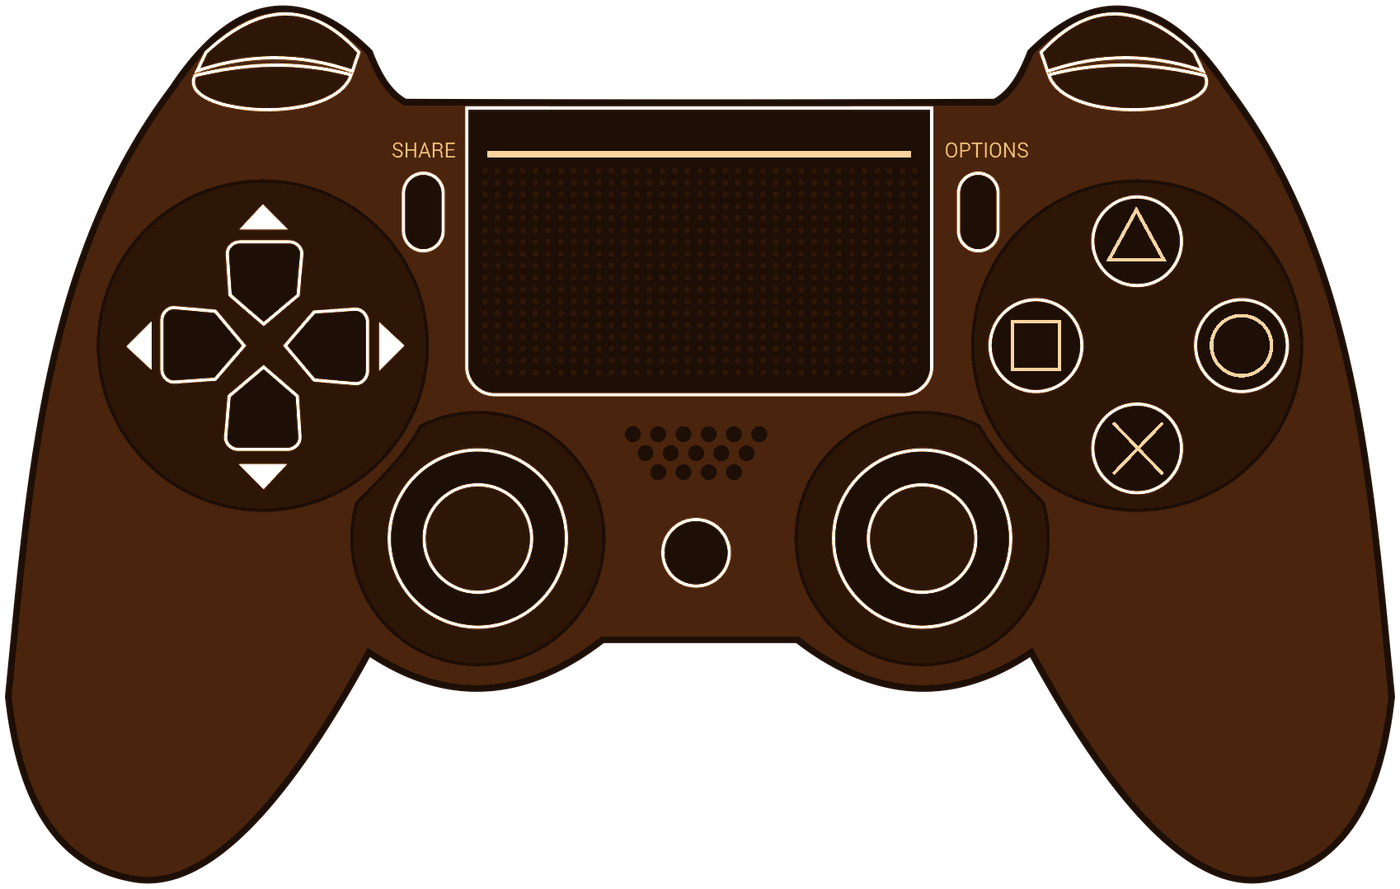
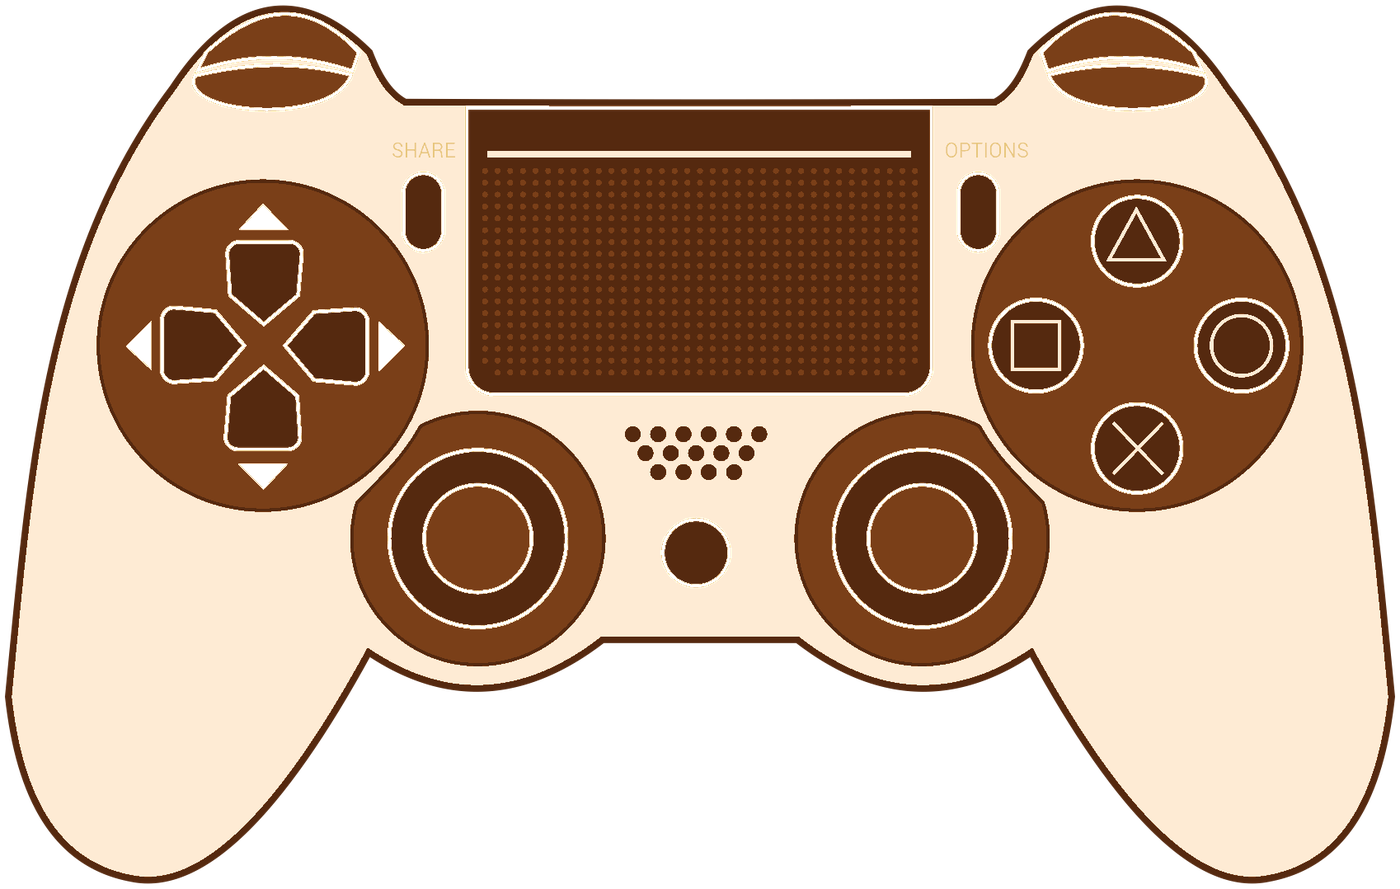
Make the tilted pad white, by mapping its tones by role rather than inverting them
The tilted source is built the opposite way round from the flat one it replaced: a filled drawing
with a mid-grey body, black outlines, black button wells and white keylines, where the other was
linework on a light body. The straight luminance ramp that suited the line drawing therefore gave
a dark object with cream keylines.

Inverting the luminance was the obvious answer and it destroyed the silhouette. Inversion cannot
tell an outline from a recess, because in this source both are the same black: it sent the pad's
entire outer edge to near-white and the shape dissolved into the honey page. The render caught it;
nothing in the numbers says the outline went missing.

The tones are mapped by role instead, which is only possible because this drawing uses three flat
values and nothing between them. Black is always an edge or a recess, the single grey is always
body, white is always a keyline. So black goes to ink, the grey goes to Paper, and the white
keylines come down to a tan that reads on paper. That curve rises steeply and then falls, so it is
written out stop by stop rather than interpolated, with a note that a future source with real
shading needs a different treatment rather than a nudge to these numbers.

The source's own SHARE and OPTIONS lettering comes out quiet and that is right. It is white in the
source and shares a ramp stop with the keylines, so it cannot be darkened without dimming them,
[…]

diff --git a/tools/build_controller_diagram.py b/tools/build_controller_diagram.py
@@ -89,25 +89,37 @@ SOURCE_SIZE = (1698, 1078)
 # section 6.2 question 1 asks what the ONE thing on the screen is; here it is the pad, so the pad
 # is the darkest object in the frame and everything else stays light.
 # ---------------------------------------------------------------------------------------
+# ⚠⚠ THIS RAMP IS NOT A GRADIENT AND MUST NOT BE "TIDIED" INTO ONE. 🧑 2026-09-04: *"make it
+# white like this"*, pointing at the previous, light-bodied pad. Getting there took two goes and
+# the failed one is the instructive half:
+#
+#   * **Inverting the luminance was the obvious answer and it is wrong.** The source is a FILLED
+#     drawing — mid-grey body, BLACK outlines, BLACK button wells, WHITE keylines — and inversion
+#     cannot tell the outlines from the wells, because both are the same black. It sent the whole
+#     silhouette to near-white and the pad lost its edge against the honey page entirely.
+#   * **The tones are mapped by ROLE instead**, which is only possible because this drawing uses
+#     three flat values and nothing in between: black is always an edge or a recess, the one grey
+#     is always body, white is always a keyline. So black goes to ink, the body's grey goes to
+#     paper, and the white keylines come DOWN to a tan that reads on paper.
+#
+# That makes the curve rise steeply and then fall, which is why it is written out stop by stop
+# rather than interpolated. A future source with real shading needs a different treatment, not a
+# nudge to these numbers.
 RAMP = [
-    (0x1D, 0x0E, 0x06),   # the black button wells and the touchpad
-    (0x2E, 0x16, 0x07),
-    (0x4A, 0x24, 0x0D),   # the body
-    (0x6B, 0x36, 0x14),
-    (0x8B, 0x52, 0x27),   # the wood edge, the raised shoulder faces
-    (0xC8, 0x94, 0x5A),
-    (0xE8, 0xC7, 0x7E),   # Khaki
-    (0xFE, 0xEB, 0xD4),   # UiTheme.Paper, the keylines
+    (0x55, 0x29, 0x0F),   # 0.00  black: every outline and every recess. UiTheme.PaperInk
+    (0x7A, 0x3F, 0x18),   #       the touchpad's own dotted texture
+    (0xFE, 0xEB, 0xD4),   # 0.29  the body. UiTheme.Paper, lighter than the page it sits on
+    (0xFE, 0xEB, 0xD4),
+    (0xFD, 0xE7, 0xCB),
+    (0xF0, 0xD2, 0xA8),
+    (0xE8, 0xC7, 0x7E),   #       Khaki
+    (0xDE, 0xBA, 0x8C),   # 1.00  white: the keylines, brought DOWN so they read on paper
 ]
 
-# ⚠⚠ THE SATURATED MARKS ARE FLATTENED TO ONE HONEY. The source draws its face glyphs in cyan,
-# pink, red and blue and its light bar in blue: two of those are `CLAUDE.md` § 6.4 bans outright
-# and the other two belong to other jobs in this palette. Ramping them by luminance instead would
-# come out as four different browns, so the pad would look like two of its four buttons were
-# greyed out. One colour, and the SHAPE is what names them (`docs/FUTURE.md` § 16.1).
-GLYPH = (0xFC, 0xD3, 0x9F)
-
-
+# ⚠ THE GLYPHS FOLLOW THE BUTTON, NOT THE BODY. The face buttons' wells are black in the source
+# and land on ink above, so a light mark is the readable way round on them even though the pad
+# around them is pale. The SHAPE is still what tells the four apart (`docs/FUTURE.md` § 16.1).
+GLYPH = (0xFE, 0xEB, 0xD4)
 
 # ---------------------------------------------------------------------------------------
 # § WHERE EACH CONTROL IS, IN THE SOURCE RASTER'S PIXELS

diff --git a/docs/TODO.md b/docs/TODO.md
@@ -403,6 +403,31 @@ that is now twice in a row it was there.
 linework on a light body. Dark body, honey keylines, which lands on `CLAUDE.md` § 6.5's own
 description of 🧑's authored surfaces: *"a bright keyline outside a dark rim."*
 
+### 142.3f ⚠⚠ THE PAD IS WHITE, AND INVERTING THE LUMINANCE WAS THE OBVIOUS ANSWER AND WAS WRONG
+
+🧑 2026-09-04, pointing at the previous, light-bodied render: *"make it white like this."*
+
+§ 142.3e's tilted source is built the opposite way round from the flat one it replaced — a FILLED
+drawing with a mid-grey body, black outlines, black button wells and WHITE keylines — so the
+straight luminance ramp that suited a line drawing gave a dark object with cream keylines.
+
+⚠⚠ **THE FIRST FIX WAS TO INVERT THE LUMINANCE, AND IT DESTROYED THE SILHOUETTE.** Inversion
+cannot tell an outline from a recess, because in this source **both are the same black**: it sent
+the pad's entire outer edge to near-white and the shape dissolved into the honey page. The render
+is what caught it; nothing in the numbers says "the outline went missing".
+
+✅ **The tones are mapped by ROLE instead**, which is only possible because this drawing uses three
+flat values and nothing between them: black is always an edge or a recess, the single grey is
+always body, white is always a keyline. Black to ink, grey to `UiTheme.Paper`, and the white
+keylines brought DOWN to a tan that reads on paper. ⚠ **That curve rises steeply and then falls,
+so it is written out stop by stop rather than interpolated**, with a note saying a future source
+with real shading needs a different treatment rather than a nudge to these numbers.
+
+⚠ **THE SOURCE'S OWN SHARE AND OPTIONS LETTERING COMES OUT QUIET, AND THAT IS RIGHT.** It is white
+in the source and shares a ramp stop with the keylines, so it cannot be darkened without dimming
+them. It should be quiet: **our own callouts already name those two buttons**, and § 6.2's third
+question asks what is on screen that the player does not need right now.
+
 ### 142.4 ⚠ AN UNRECOGNISED PAD IS DRIVEN NOW: § 138.4 STEPS 2 AND 3, BY A ROUTE § 138 DID NOT EXPECT
 
 § 138.4 step 2 asks for a registered fallback LAYOUT. ⚠⚠ **THAT ROUTE IS SHUT AND IT IS WORTH
